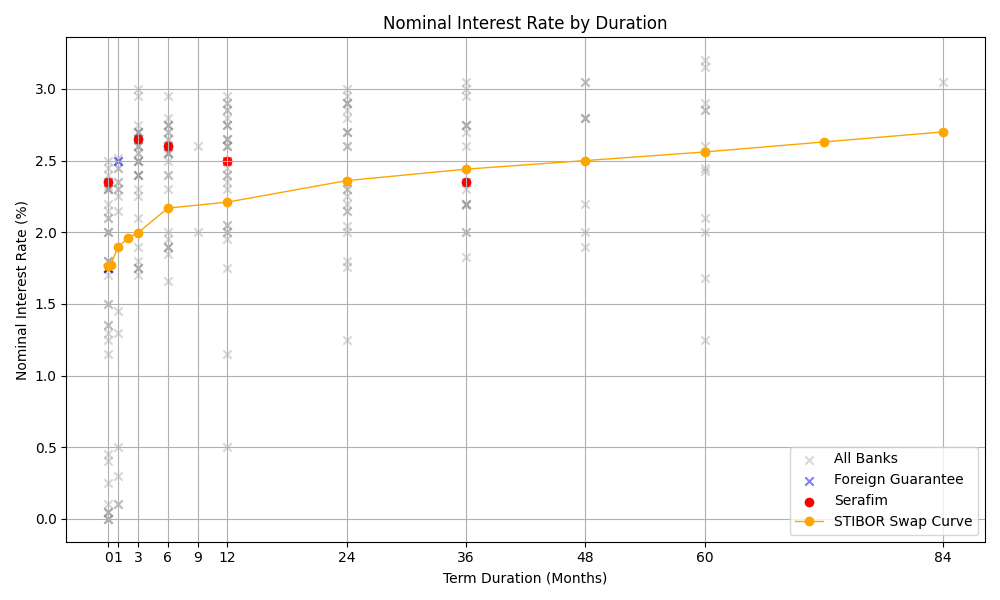
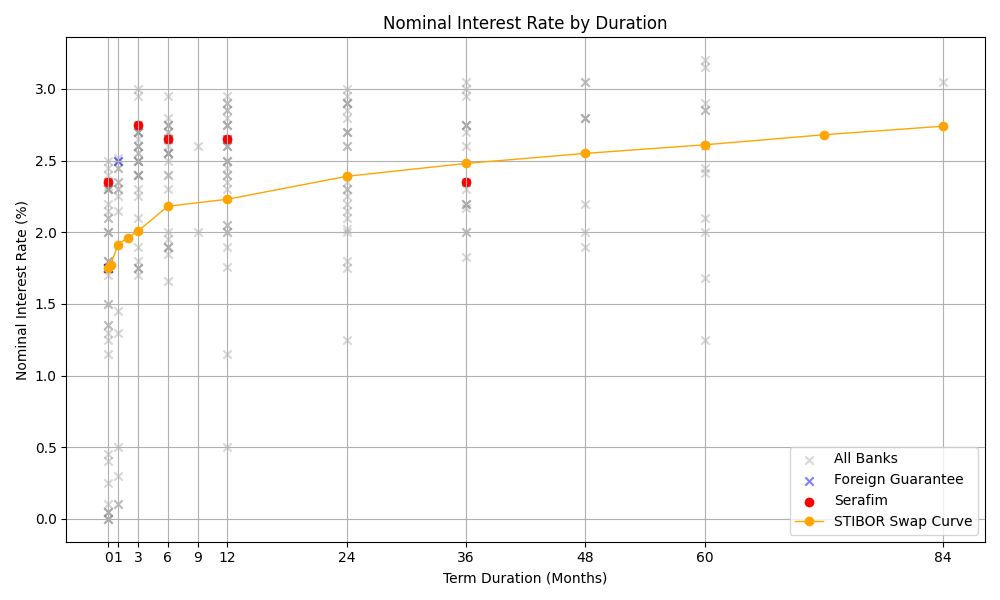
up

diff --git a/Serafim/index.html b/Serafim/index.html
@@ -81,7 +81,7 @@
 
     <h1>Competitor Overview - Serafim</h1>
     <div style="text-align: right; color: #555; font-size: 0.9em;">
-        Updated: 2026-05-29
+        Updated: 2026-06-01
     </div>
     
     <!-- Tab buttons -->
@@ -155,8 +155,8 @@
       <th>Froda</th>
       <td>2.45</td>
       <td>-</td>
-      <td>2.55 (-0.05)</td>
-      <td>2.55 (-0.05)</td>
+      <td>2.55</td>
+      <td>2.55</td>
       <td>-</td>
       <td>2.35</td>
       <td>-</td>
@@ -211,10 +211,10 @@
       <th>Serafim Finans</th>
       <td>2.35</td>
       <td>-</td>
-      <td>2.65</td>
-      <td>2.60</td>
+      <td>2.75 (+0.10)</td>
+      <td>2.65 (+0.05)</td>
       <td>-</td>
-      <td>2.50</td>
+      <td>2.65 (+0.15)</td>
       <td>-</td>
       <td>2.35</td>
       <td>-</td>
@@ -662,11 +662,11 @@
       <td>1.75</td>
       <td>1.66</td>
       <td>-</td>
-      <td>1.75</td>
-      <td>2.04 (+0.03)</td>
-      <td>2.19 (+0.03)</td>
+      <td>1.76 (+0.01)</td>
+      <td>2.02 (-0.02)</td>
+      <td>2.17 (-0.02)</td>
       <td>-</td>
-      <td>2.43 (+0.04)</td>
+      <td>2.41 (-0.02)</td>
       <td>-</td>
     </tr>
     <tr>
@@ -690,8 +690,8 @@
       <td>1.75</td>
       <td>1.85</td>
       <td>-</td>
-      <td>1.95</td>
-      <td>2.15</td>
+      <td>1.90 (-0.05)</td>
+      <td>2.10 (-0.05)</td>
       <td>-</td>
       <td>-</td>
       <td>-</td>
@@ -719,10 +719,10 @@
       <td>1.90</td>
       <td>-</td>
       <td>2.05</td>
-      <td>1.76 (-0.02)</td>
-      <td>1.83 (-0.03)</td>
-      <td>1.90 (-0.03)</td>
-      <td>1.68 (-0.02)</td>
+      <td>1.75 (-0.01)</td>
+      <td>1.83</td>
+      <td>1.90</td>
+      <td>1.68</td>
       <td>-</td>
     </tr>
     <tr>
@@ -794,15 +794,15 @@
   </thead>
   <tbody>
     <tr>
-      <th>Froda</th>
-      <td>2.45</td>
-      <td>-</td>
-      <td>2.55 (-0.05)</td>
-      <td>2.55 (-0.05)</td>
-      <td>-</td>
+      <th>Serafim Finans</th>
       <td>2.35</td>
       <td>-</td>
+      <td>2.75 (+0.10)</td>
+      <td>2.65 (+0.05)</td>
       <td>-</td>
+      <td>2.65 (+0.15)</td>
+      <td>-</td>
+      <td>2.35</td>
       <td>-</td>
       <td>-</td>
       <td>-</td>
@@ -814,11 +814,25 @@
       <td>1.75</td>
       <td>1.66</td>
       <td>-</td>
-      <td>1.75</td>
-      <td>2.04 (+0.03)</td>
-      <td>2.19 (+0.03)</td>
+      <td>1.76 (+0.01)</td>
+      <td>2.02 (-0.02)</td>
+      <td>2.17 (-0.02)</td>
       <td>-</td>
-      <td>2.43 (+0.04)</td>
+      <td>2.41 (-0.02)</td>
+      <td>-</td>
+    </tr>
+    <tr>
+      <th>Nordea</th>
+      <td>0.00</td>
+      <td>0.50</td>
+      <td>1.75</td>
+      <td>1.85</td>
+      <td>-</td>
+      <td>1.90 (-0.05)</td>
+      <td>2.10 (-0.05)</td>
+      <td>-</td>
+      <td>-</td>
+      <td>-</td>
       <td>-</td>
     </tr>
     <tr>
@@ -829,10 +843,10 @@
       <td>1.90</td>
       <td>-</td>
       <td>2.05</td>
-      <td>1.76 (-0.02)</td>
-      <td>1.83 (-0.03)</td>
-      <td>1.90 (-0.03)</td>
-      <td>1.68 (-0.02)</td>
+      <td>1.75 (-0.01)</td>
+      <td>1.83</td>
+      <td>1.90</td>
+      <td>1.68</td>
       <td>-</td>
     </tr>
   </tbody>
